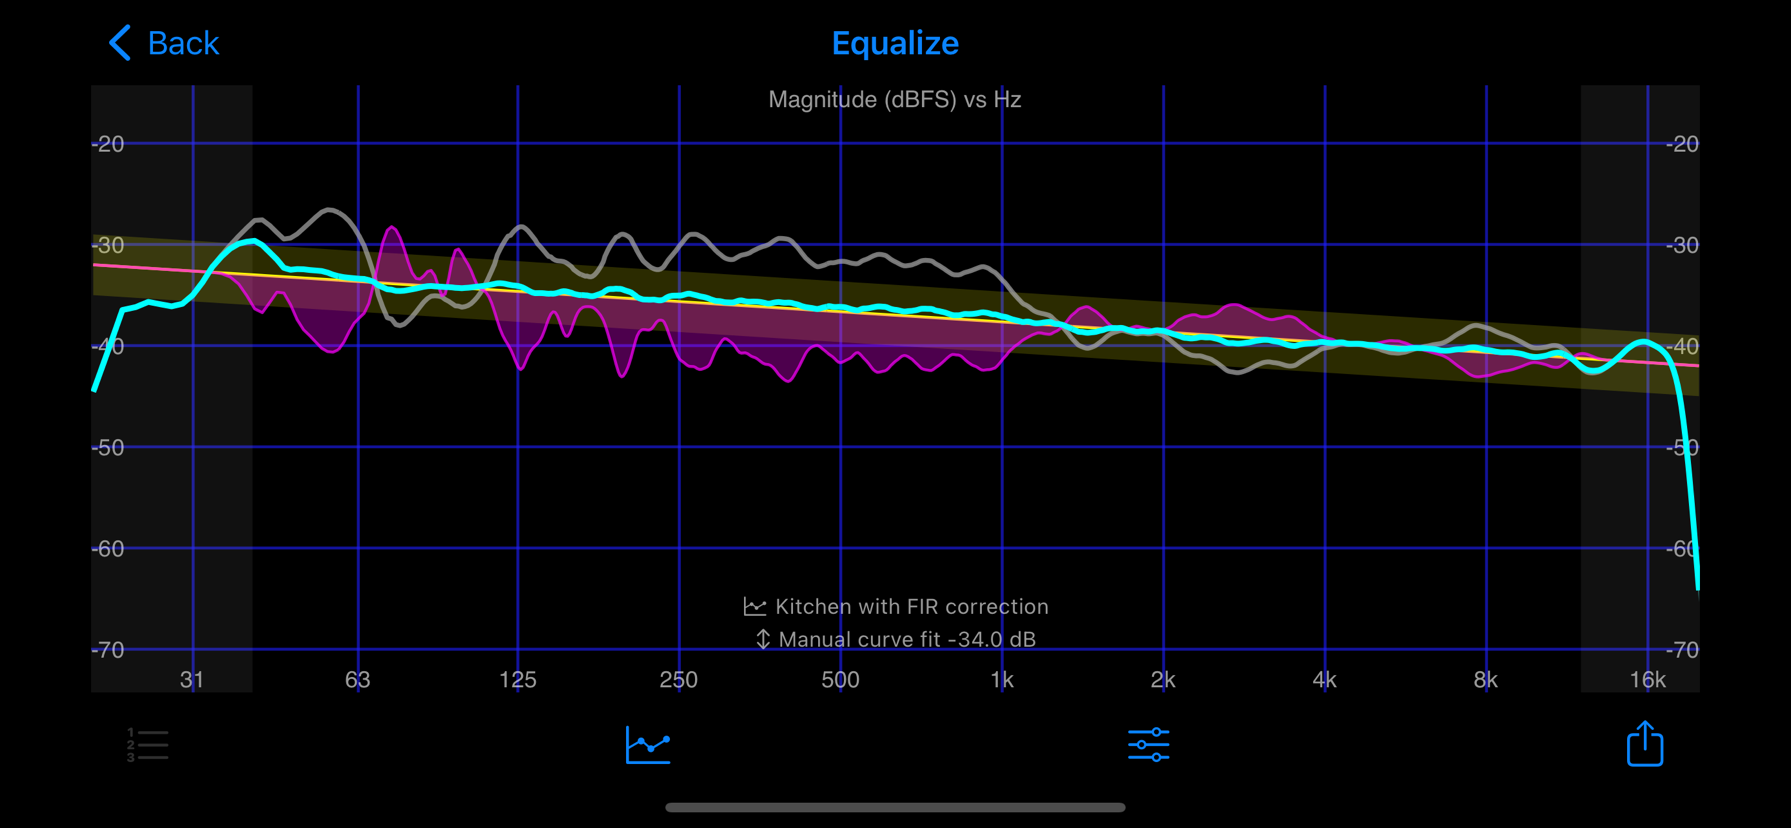
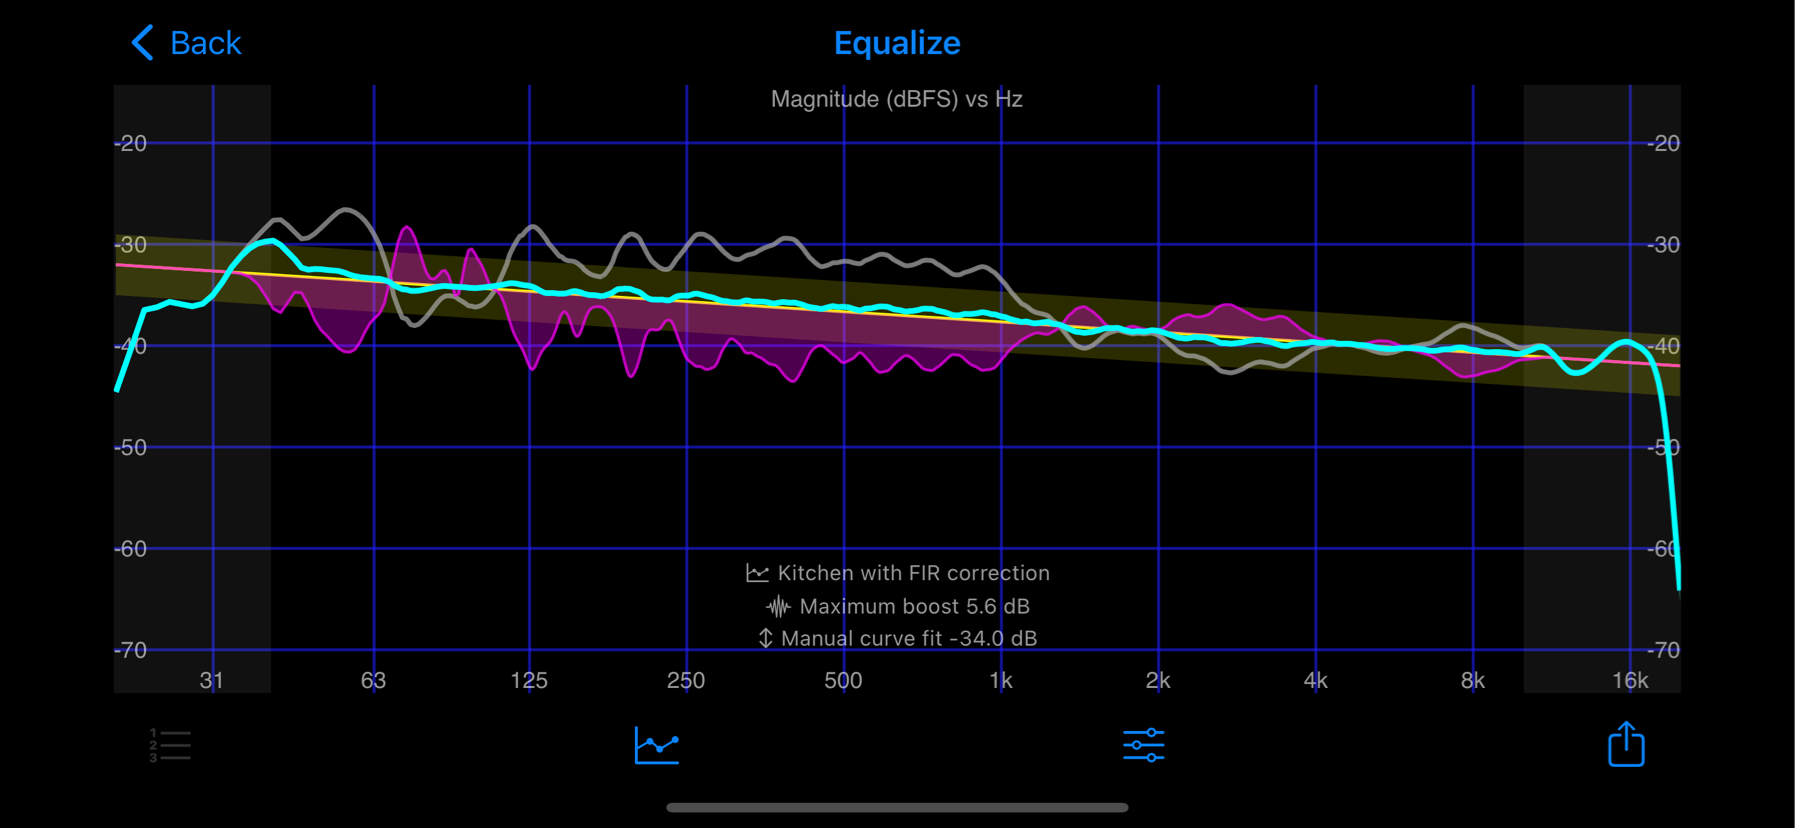
Adding maximum boost note to Roon appnote

diff --git a/docs/appnotes/roon.md b/docs/appnotes/roon.md
@@ -112,7 +112,15 @@ Go to the DSP Engine for the measured audio zone and add a convolution by pressi
 
 ![filter import](/assets/img/roon_convolution.png "load filter")
 
-Ensure that Headroom management is enabled.  It is normal for convolutions to result in an overall boost to the signal and this can result in clipping.  You may need to change the adjustment to -6 dB or more.
+
+## 6.  Headroom Management
+
+Ensure that Headroom management is enabled.  Convolution can increase the overall system gain, causing clipping.  To compensate, the "headroom" can be adjusted.  Use the maximum boost as a starting point for this adjustment.  If the value is large, it may be necessary to change the equalization settings, see [gain management](../tuning/equalization.md#gain-management).
+
+![maximum boost](/assets/img/roon_maximum_boost.png "use maximum boost to adjust headroom")
+
+
+To compensate for a maximum boost of about +6 dB, enter -6 dB.  Enable the clipping indicator to see if the headroom adjustment is sufficient.
 
 ![headroom management](/assets/img/roon_headroom.png "enable headroom management")
 
